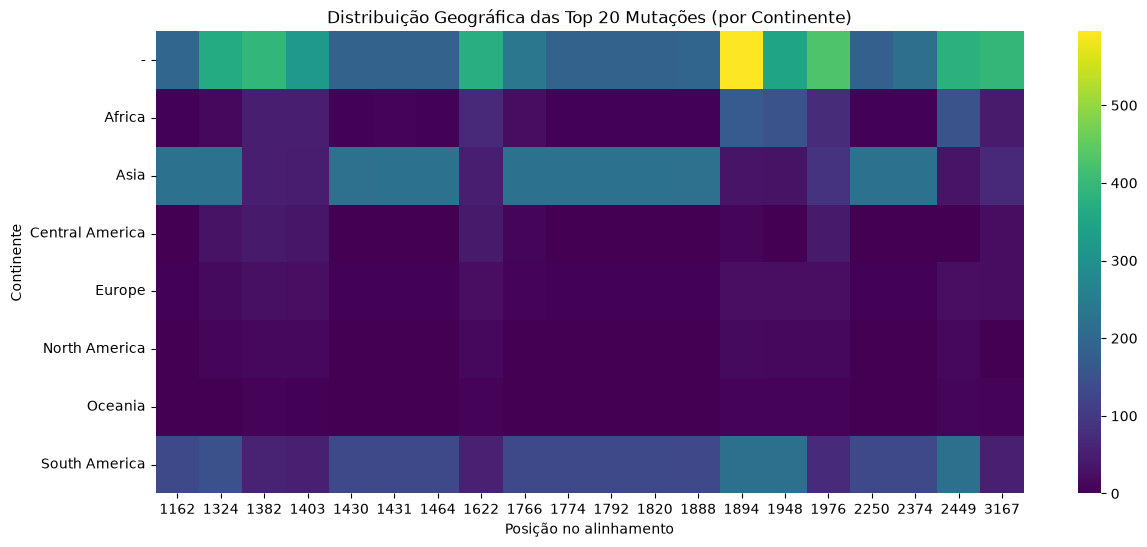
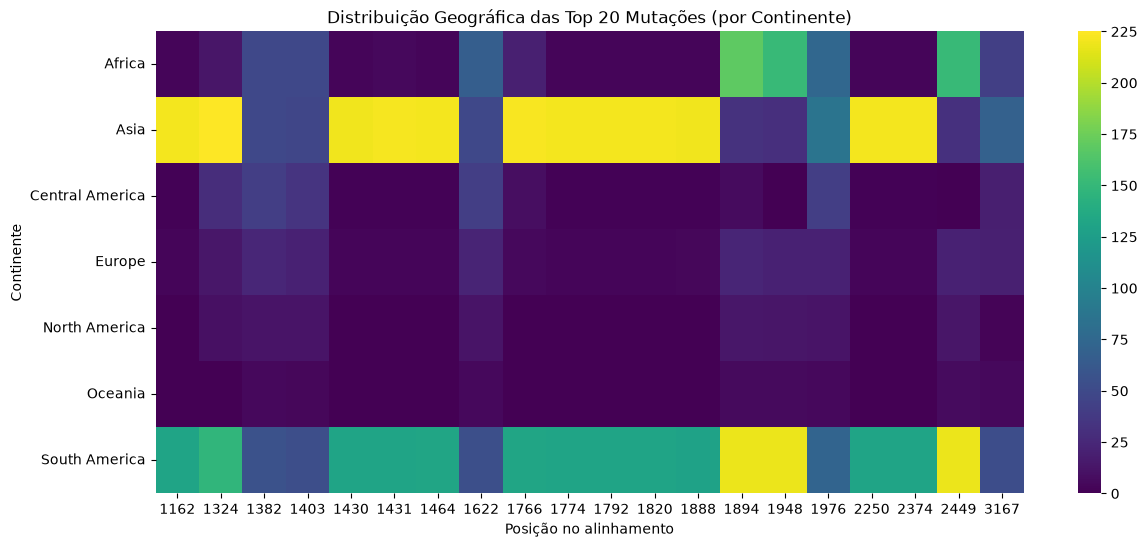
feat: remove continente indefinido do heatmap geográfico

diff --git a/scripts/07_geo_mutations.py b/scripts/07_geo_mutations.py
@@ -175,6 +175,8 @@ df_so_minoritaria = df_sem_gap.merge(
     letra_minoritaria_por_posicao[["posicao", "letra"]],
     on=["posicao", "letra"]
 )
+# remove as sequências sem continente definido, focando só nas regiões conhecidas
+df_so_minoritaria = df_so_minoritaria[df_so_minoritaria["continente"] != "-"]
 
 # transforma em matriz: continente nas linhas, posição nas colunas, contagem da letra minoritária como valor
 matriz_heatmap = df_so_minoritaria.pivot_table(index="continente", columns="posicao", values="contagem", fill_value=0)
